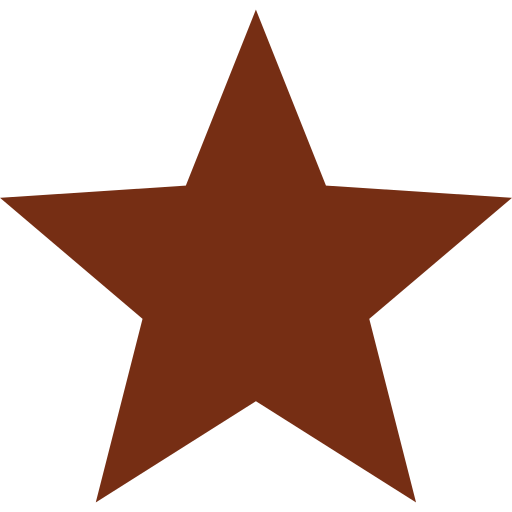
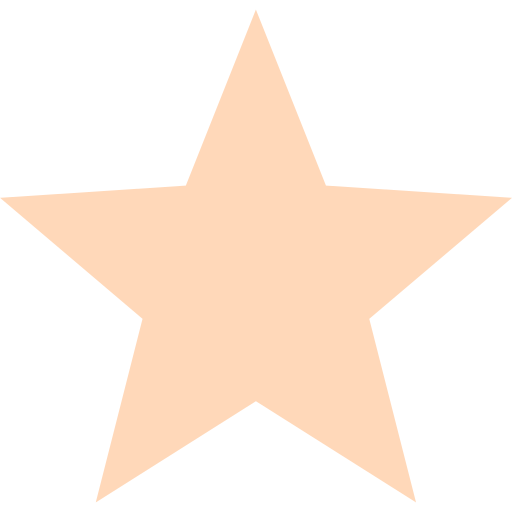
design updated

diff --git a/styles/restaurant.css b/styles/restaurant.css
@@ -1,9 +1,9 @@
-
 .restaurant-main-container {
   width: 100%;
   min-height: 100vh;
   display: flex;
   flex-direction: column;
+  justify-content: space-between;
   font-family: 'Outfit';
 }
 
@@ -12,8 +12,8 @@
   display: flex;
   align-items: center;
   flex-direction: column;
-  min-height: 30vh;
-  background-color: white;
+  min-height: 35vh;
+  background: linear-gradient(130deg, var(--brown) 40%, #ff520271);
   justify-content: space-around;
 }
 
@@ -26,28 +26,39 @@
 }
 
 .title-offer>h4 {
-  font-size: 1.2rem;
+  color: white;
+  font-size: 1.4rem;
+  width: 32%;
+  display: flex;
+  align-items: center;
+  justify-content: center;
 }
 
 .title-offer>h2 {
-  font-size: 1.8rem;
-  color: var(--brown);
+  font-size: 2rem;
+  color: var(--peach);
+  width: 32%;
+  display: flex;
+  align-items: center;
+  justify-content: center;
 }
 
 .offer {
-  width: 12%;
+  width: 32%;
   display: flex;
   align-items: center;
-  justify-content: space-between;
+  justify-content: center;
 }
 
 .offer>img {
-  width: 17%;
+  width: 6%;
 }
 
 .offer>h4 {
-  font-size: 1rem;
-  width: 80%;
+  font-size: 1.3rem;
+  width: 30%;
+  color: white;
+  margin-left: 10px;
 }
 
 .details-restaurant {
@@ -62,7 +73,8 @@
   display: flex;
   width: 60%;
   justify-content: space-around;
-  color: var(--brown);
+  color: white;
+  font-size: 1.2rem;
 }
 
 .ratings-container {
@@ -77,7 +89,8 @@
 }
 
 .ratings-container>h3 {
-  font-size: 1rem;
+  color: white;
+  font-size: 1.2rem;
 }
 
 .restaurant-body {
@@ -157,7 +170,7 @@
 .item-cost>del {
   font-size: .9rem;
 }
-  
+
 .item-review {
   display: flex;
   align-items: center;
@@ -184,7 +197,7 @@
   box-shadow: 0px 0px 2px var(--brown);
 }
 
-.item-add>span{
+.item-add>span {
   font-weight: 400;
   font-family: system-ui;
 }
@@ -202,17 +215,16 @@
 
 @keyframes waiter {
   from {
-      left: 3%;
+    left: 3%;
   }
 
   to {
-      left: 77%;
+    left: 77%;
   }
 }
 
-
 .addBtn {
-  background-color: var(--brown);
+  background: linear-gradient(130deg, var(--brown) 40%, #ff520271);
   color: white;
   border-radius: 7px;
   font-size: .9rem;
@@ -225,7 +237,7 @@
 }
 
 .addBtn:hover {
-  scale: 0.95;
+  scale: 0.97;
 }
 
 .quantity-btn {
@@ -241,7 +253,7 @@
   color: var(--brown);
   background-color: transparent;
   font-size: 1.2rem;
-  height: 57%;
+  height: 53%;
   display: flex;
   align-items: center;
   justify-content: center;
@@ -253,12 +265,12 @@
   font-weight: 500;
 }
 
-.min-btn{
+.min-btn {
   padding-bottom: 3px;
 }
 
 .min-btn:active,
 .max-btn:active {
-    background-color: var(--brown);
-    color: var(--peach);
+  background-color: var(--brown);
+  color: var(--peach);
 }

diff --git a/styles/index.css b/styles/index.css
@@ -5,8 +5,8 @@
   align-items: center;
   justify-content: center;
   font-size: 3rem;
-  color: var(--peach);
-  background-color: var(--brown);
+  color: var(--lpeach);
+  background: linear-gradient(130deg ,var(--brown) 40%,#ff520271);
 }
 
 .items {
@@ -87,7 +87,7 @@
   display: flex;
   align-items: center;
   flex-direction: column;
-  justify-content: space-around;  
+  justify-content: space-around;
 }
 
 .restaurant-head {
@@ -328,7 +328,7 @@
 
 .star-rating img {
   width: 20%;
-  height: 60%;
+  height: 70%;
 }
 .customer-review {
   width: 100%;
@@ -362,12 +362,5 @@
   width: 30%;
   height: 90%;
   border-radius: 30px;
-  background-color: var(--brown);
-}
-
-
-footer {
-  width: 100%;
-  height: 15vw;
-  background-color: var(--brown)
+  background: linear-gradient(130deg, var(--brown) 60%, #ff520265);
 }

diff --git a/styles/header.css b/styles/header.css
@@ -29,7 +29,7 @@ body {
     flex-direction: column;
     align-items: center;
     background: linear-gradient(white 10%, var(--peach));
-    padding-top: 6vw;
+    padding-top: 5vw;
     position: relative;
 }
 
@@ -220,20 +220,22 @@ nav ul li a {
 
 .login {
     border: 1px solid var(--brown);
-    background-color: transparent;
+    background: transparent;
 }
 
 .login:hover {
-    background-color: var(--brown);
+    background: linear-gradient(130deg ,var(--brown),#ff520271);
     color: var(--white);
+    border: transparent;
 }
 
 .signup {
-    background-color: var(--brown);
+    background: linear-gradient(130deg ,var(--brown),#ff520271);
     color: var(--white);
+    border: none;
 }
 
-.signup:hover {
+.signup:hover,.login:hover{
     box-shadow: 0px 0px 3px var(--brown);
 }
 

diff --git a/scripts/index.js b/scripts/index.js
@@ -21,7 +21,7 @@ fetch('data/most-ordered-items.php')
               <h4 class="offer-price">₹${item.price}</h4>
             </div>
             <div class="star-rating">
-              <img src="img/star.png" alt="">
+              <img src="img/star2.png" alt="">
               <h4>${item.ratings}</h4>
             </div>
           </div>
@@ -52,7 +52,7 @@ fetch('data/restaurants.php')
                     <p>${restaurant.item_name}</p>
                 </div>
                 <div class="restaurant-ratings">
-                    <img src="img/star.png" alt="">
+                    <img src="img/star2.png" alt="">
                     <h5>${restaurant.ratings}</h5>
                 </div>
             </div>

diff --git a/styles/login.css b/styles/login.css
@@ -135,16 +135,16 @@ body{
     font-family: 'alata';
     width: 100%;
     height: 33%;
-    background-color: var(--brown);
-    color: var(--peach);
-    border-radius: 17px;
+    background: linear-gradient(130deg ,var(--brown) 30%,#ff520271);
+    color: white;
+    border-radius: 15px;
     border: none;
     font-size: 1.1rem;
     cursor: pointer;
 }
 
 .login-container input[type="submit"]:active,.login-container input[type="submit"]:hover{
-    scale: 0.98;
+    scale: 0.97;
 }
 
 .legal-container{

diff --git a/scripts/search.js b/scripts/search.js
@@ -72,7 +72,7 @@ async function searchAction(query) {
                         <h2>₹${searchItem.price}</h2>
                         <div class="review">
                             <div class="star">
-                                <img src="img/star.png" alt="">
+                                <img src="img/star2.png" alt="">
                                 <p>${searchItem.ratings}</p>
                                 <p>&nbsp;&nbsp;(${searchItem.rperson})</p>
                             </div>

diff --git a/styles/footer.css b/styles/footer.css
@@ -1,10 +1,10 @@
 footer {
     width: 100%;
-    height: 16vw;
+    height: 20vw;
+    background: linear-gradient(130deg, var(--brown) 60%, #ff510057);
     display: flex;
     align-items: center;
     justify-content: space-around;
-    background-color: var(--brown);
 }
 
 .footer-logo {
@@ -99,7 +99,7 @@ footer {
 }
 .social-modes .social{
     width: 22%;
-    height: 57%;
+    height: 45%;
     opacity: 0.4;
     cursor: pointer;
 }

diff --git a/scripts/restaurants.js b/scripts/restaurants.js
@@ -18,7 +18,7 @@ fetch('data/restaurants.php')
                     <p>${restaurant.item_name}</p>
                 </div>
                 <div class="restaurant-ratings">
-                    <img src="img/star.png" alt="">
+                    <img src="img/star2.png" alt="">
                     <h5>${restaurant.ratings}</h5>
                 </div>
             </div>

diff --git a/scripts/restaurant.js b/scripts/restaurant.js
@@ -49,7 +49,7 @@ async function getRestaurantData(restaurantId) {
             <h2>₹${item.price}</h2>
           </div>
           <div class="item-review">
-            <img src="img/star.png" alt="">
+            <img src="img/star2.png" alt="">
             <h4>${item.ratings}</h4>
           </div>
           <div class="item-add js-add-${item.item_id}">

diff --git a/styles/signup.css b/styles/signup.css
@@ -139,9 +139,9 @@ body{
     font-family: 'alata';
     width: 100%;
     height: 20%;
-    background-color: var(--brown);
-    color: var(--peach);
-    border-radius: 17px;
+    background: linear-gradient(130deg ,var(--brown) 30%,#ff520271);
+    color: white;
+    border-radius: 15px;
     border: none;
     font-size: 1.1rem;
     cursor: pointer;

diff --git a/styles/verify.css b/styles/verify.css
@@ -133,9 +133,9 @@ body{
     font-family: 'alata';
     width: 100%;
     height: 33%;
-    background-color: var(--brown);
-    color: var(--peach);
-    border-radius: 17px;
+    background: linear-gradient(130deg ,var(--brown) 30%,#ff520271);
+    color: white;
+    border-radius: 15px;
     border: none;
     font-size: 1.1rem;
     cursor: pointer;

diff --git a/login.php b/login.php
@@ -18,16 +18,18 @@
         nav ul>li:first-child {
             opacity: 1;
         }
+
         .login {
             pointer-events: none;
-            border: 1px solid var(--brown);
-            background-color: var(--brown);
+            background: linear-gradient(130deg, var(--brown), #ff520271);
             color: var(--white);
+            border: none;
         }
+
         .signup {
-            background-color: transparent;
-            color: var(--brown);
             border: 1px solid var(--brown);
+            background: transparent;
+            color:var(--brown);
         }
     </style>
 </head>
@@ -44,7 +46,9 @@
             <form action="data/auth-login.php" class="login-form" method="post">
                 <div class="form-mobile">
                     <input type="tel" name="mobile" id="input-mobile" autofocus required pattern="[0-9]{10}" placeholder="Enter Mobile Number">
-                    <span><?php if(isset($_GET['emob'])) { echo $_GET['emob']; }?></span>
+                    <span><?php if (isset($_GET['emob'])) {
+                                echo $_GET['emob'];
+                            } ?></span>
                     <div class="instruction-cont">
                         <a href="signup.php">Don't have an Account ? Create Now.</a>
                     </div>
